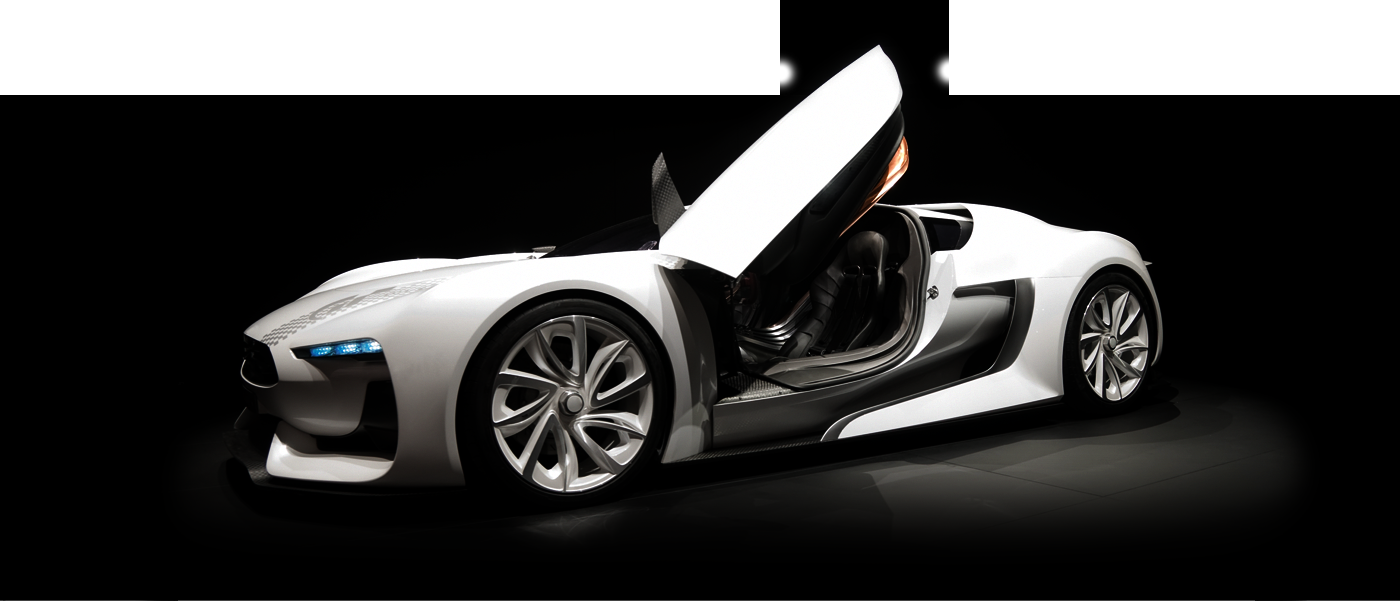
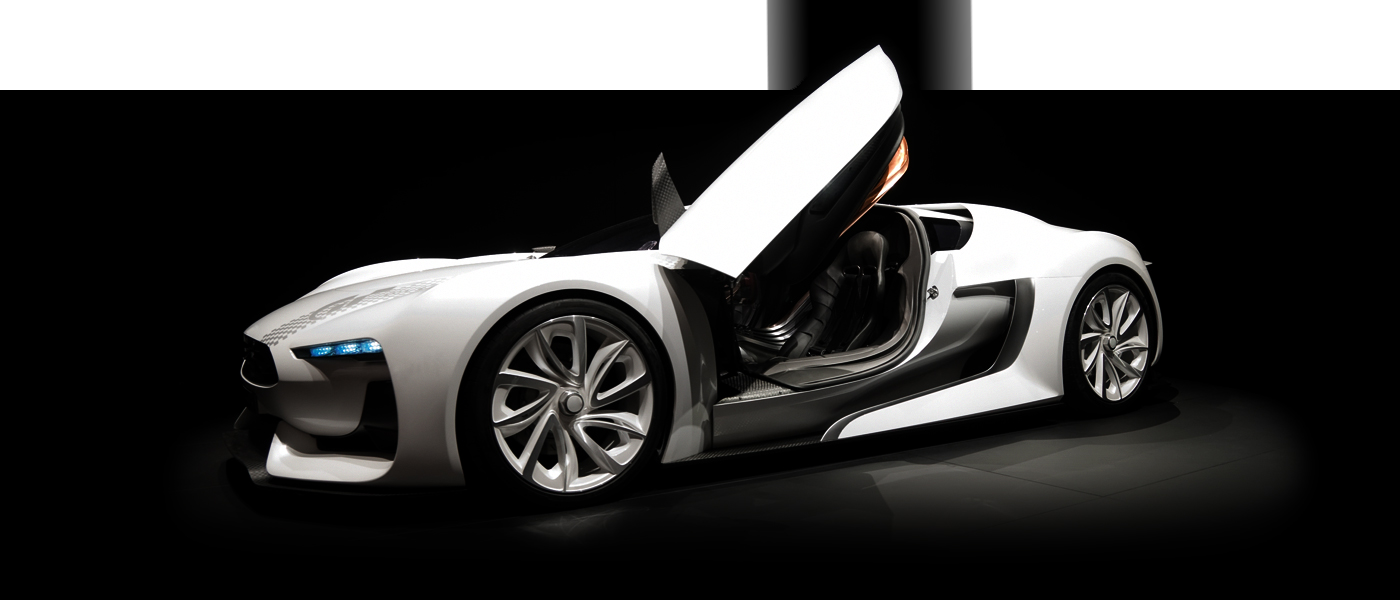
Adjusts styles.

diff --git a/dist/styles/main.min.css b/dist/styles/main.min.css
@@ -1,1 +1,1 @@
-article,aside,details,figcaption,figure,footer,header,hgroup,nav,section,summary{display:block}audio,canvas,video{display:inline-block}audio:not([controls]){display:none;height:0}[hidden],template{display:none}html{background:#fff;color:#000;-webkit-text-size-adjust:100%;-ms-text-size-adjust:100%}button,html,input,select,textarea{font-family:sans-serif}body{margin:0}a{background:0 0}a:focus{outline:dotted thin}a:active,a:hover{outline:0}h5{font-size:.83em}h6{font-size:.75em;margin:2.33em 0}abbr[title]{border-bottom:1px dotted}b,strong{font-weight:700}dfn{font-style:italic}mark{background:#ff0;color:#000}code,kbd,pre,samp{font-family:monospace,serif;font-size:1em}pre{white-space:pre;white-space:pre-wrap}q{quotes:"\201C" "\201D" "\2018" "\2019"}q:after,q:before{content:'';content:none}small{font-size:80%}sub,sup{font-size:75%;line-height:0;position:relative;vertical-align:baseline}sup{top:-.5em}sub{bottom:-.25em}img{border:0}svg:not(:root){overflow:hidden}figure{margin:0}fieldset{border:1px solid silver;margin:0 2px;padding:.35em .625em .75em}legend{border:0;padding:0;white-space:normal}button,input,select,textarea{font-family:inherit;font-size:100%;margin:0;vertical-align:baseline}button,input{line-height:normal}button,select{text-transform:none}button,html input[type=button],input[type=reset],input[type=submit]{-webkit-appearance:button;cursor:pointer}button[disabled],input[disabled]{cursor:default}input[type=checkbox],input[type=radio]{box-sizing:border-box;padding:0}input[type=search]{-webkit-appearance:textfield;box-sizing:content-box}input[type=search]::-webkit-search-cancel-button,input[type=search]::-webkit-search-decoration{-webkit-appearance:none}button::-moz-focus-inner,input::-moz-focus-inner{border:0;padding:0}textarea{overflow:auto;vertical-align:top}table{border-collapse:collapse;border-spacing:0}.non-bulleted-list,.side-menu,.tabs,api-list>ul,api-specification-card ul{padding-left:0;list-style-type:none;width:100%}@font-face{font-family:hack-font;src:url(/hackathon-portal/dist/fonts/hack-font.otf);font-weight:400}@font-face{font-family:hack-font;src:url(/hackathon-portal/dist/fonts/hack-font-bold.otf);font-weight:700}div,dl,h1,h2,h3,h4,h5,hr,ol,p,ul{margin:0;padding:0}body{font-family:hack-font,sans-serif;font-size:14px;padding-bottom:20px;color:#333;background-color:#fff}h1,h2,h3,h4{text-transform:uppercase;text-align:left;font-weight:400}h1{font-size:24px}h2{font-size:16px}h3,h4{font-size:14px}input,textarea{font-family:Consolas,Monaco,'Andale Mono',monospace;margin:0;padding:6px;border-width:0;background-color:#eff8ff;white-space:pre}button{height:35px;line-height:35px;margin:0;padding:0 16px;border-width:0;border-radius:0;background-color:#000;color:#fff;text-transform:uppercase}button[disabled]{background-color:#666;color:#fff}[hljs]>pre{margin:0;padding:0 16px;overflow:auto;background-color:#f7f7f7}[hljs]>pre>code{display:block;overflow:visible;padding:16px 0;background-color:#f7f7f7}.tabs:after{content:"";display:table;clear:both}.tab{display:block;float:left;width:calc(33.3% - 14px);margin-left:20px;height:30px;font-size:16px;border:0 solid #333;border-bottom-width:10px;cursor:pointer;vertical-align:top;text-transform:uppercase;text-align:left;overflow:hidden;-webkit-transition:border-color .25s;transition:border-color .25s}.tab.selected{border-color:#09f}.tab:first-child{margin-left:0}hr.divider{position:relative;border:0 solid #bfbfbf;border-bottom-width:1px}li:last-child>hr.divider{display:none}h1{margin-bottom:16px}#banner{color:#fff;background-color:#040404}#top-header{position:relative;height:70px;line-height:70px;vertical-align:middle;border-width:0 0 1px;-webkit-border-image:-webkit-linear-gradient(0deg,transparent,#777 20%,#777 80%,transparent) 1;border-image:linear-gradient(90deg,transparent,#777 20%,#777 80%,transparent) 1;z-index:1}#title-part-1,#title-part-2{font-size:20px;text-transform:uppercase}#title-part-1{color:#09f}#logos{position:relative;float:right}#logos>a,#logos>a>img{vertical-align:middle}#logos>a{margin-left:36px}#ericsson-logo{position:relative;top:-1px}#car-image-panel{position:absolute;top:0;left:0;width:100%;height:620px;background:url(/hackathon-portal/dist/images/car.png) center center no-repeat;z-index:2}#empty-car-area{position:relative;height:549px;z-index:3}.content-area{max-width:940px;margin:0 auto;height:100%;min-height:500px}.inner-content-area{position:relative;float:right;clear:right;width:calc(100% - 240px);height:100%}.inner-content-area>h1{margin:30px 0;text-align:left}.inner-content-area>.tabs{position:absolute;bottom:34px}.side-menu{float:left;width:220px;margin:0 20px 0 0}.side-menu>li,.side-menu>li>a{display:block;height:84px;line-height:84px;font-size:16px;vertical-align:middle;text-align:left;text-transform:uppercase;cursor:pointer}.side-menu>li>a,.side-menu>li>a:active,.side-menu>li>a:hover,.side-menu>li>a:visited{color:#333;text-decoration:none;-webkit-transition:color .25s;transition:color .25s}.side-menu>li.selected>a{color:#09f}.side-menu>li>hr.divider{top:0;margin:0}li[api-list-item]{position:relative}li[api-list-item]:after{content:"";display:table;clear:both}li[api-list-item]>hr.divider{top:4px;margin:0 0 8px 120px}.api-list-item-header{position:relative;height:35px;line-height:35px;overflow-x:visible;overflow-y:hidden;vertical-align:middle;cursor:pointer;color:#bfbfbf;-webkit-transition:color .15s;transition:color .15s}.api-list-item-header>div{line-height:40px}.api-list-item-header>.verb{font-family:Consolas,Monaco,'Andale Mono',monospace;float:left;width:100px;color:#fff;background-color:#bfe5ff;text-align:center;-webkit-transition:color .15s,background-color .15s;transition:color .15s,background-color .15s}.api-list-item-header>.route{font-family:Consolas,Monaco,'Andale Mono',monospace;float:left;margin-left:20px}.api-list-item-header>.name{position:absolute;right:0;padding-left:20px;background-color:#fff}li[api-list-item].none-selected .api-list-item-header,li[api-list-item].selected .api-list-item-header{color:#333}li[api-list-item].none-selected .api-list-item-header>.verb,li[api-list-item].selected .api-list-item-header>.verb{color:#fff;background-color:#09f}.api-list-item-body{clear:both;overflow-x:visible;overflow-y:hidden;height:0;text-align:left;-webkit-transition:height .3s;transition:height .3s}li[api-list-item].selected .api-list-item-body{height:900px}.api-list-item-body>api-example-card,.api-list-item-body>api-specification-card,.api-list-item-body>api-try-it-card{height:calc(100% - 118px);margin-top:14px;padding:20px 0 35px;overflow-x:visible;overflow-y:auto}.card-tab{height:30px;border-bottom-width:10px;margin-top:10px}api-specification-card{display:block}api-specification-card>div{margin-top:16px}api-specification-card>div:first-child{margin-top:0}.resource-table-array-element:after{content:', '}.resource-table-array-element:last-child:after{content:''}api-specification-card td{white-space:pre-wrap}api-specification-card dt{display:block;float:left;clear:left}api-specification-card dd{display:span;margin-left:240px;margin-bottom:10px}.api-specification-errors dd{margin-left:80px}api-specification-card th{width:80px;padding-bottom:10px;text-align:left}api-specification-card th:first-child{width:160px}api-specification-card th:last-child{width:380px}api-specification-card td{padding-bottom:6px;vertical-align:top}api-specification-card h3{margin-top:34px;margin-bottom:14px;font-weight:700;text-transform:none}.api-specification-examples li,api-specification-card h4{margin-bottom:10px}.example-content{padding:16px;background-color:#f7f7f7;white-space:nowrap}.example-request-header{font-family:Consolas,Monaco,'Andale Mono',monospace}.example-content>[hljs]>pre,.example-content>[hljs]>pre>code{padding:0}api-example-card{display:block}api-example-card>[hljs]>pre{height:calc(100% - 50px);margin:10px 0 0}.platform-tab{height:30px;border-bottom-width:10px;margin-top:0}api-try-it-card{display:block;position:relative}api-try-it-card h3{margin-top:14px}api-try-it-card h4{margin:23px 0 18px;font-weight:700}api-try-it-card>hr{margin-top:10px;margin-bottom:10px}api-try-it-card label{display:block;margin-top:8px}.try-it-request-area,.try-it-response-area,.try-it-url{position:relative;margin-top:10px;margin-bottom:10px}.try-it-request-area{padding-bottom:38px}.try-it-auth-string,.try-it-url{font-family:Consolas,Monaco,'Andale Mono',monospace;background-color:#f7f7f7;padding:6px}.try-it-url{overflow-x:hidden}.try-it-authentication-header>span,api-try-it-card label>*{display:inline-block}.try-it-authentication-header>span:first-child,api-try-it-card label>span{width:160px;text-align:right}.try-it-authentication-header>span:nth-child(2){min-width:248px}api-try-it-card input{width:248px}.try-it-authentication input{width:168px}.domain-input{width:409px}.try-it-authentication{margin-top:8px}.try-it-authentication>label{margin-left:80px}.try-it-request-body{font-family:Consolas,Monaco,'Andale Mono',monospace;width:calc(100% - 12px);height:280px;margin-bottom:8px}.try-it-reset-button,.try-it-send-button{position:absolute;bottom:0}.try-it-reset-button{left:0}.try-it-send-button{right:0}.try-it-response{font-family:Consolas,Monaco,'Andale Mono',monospace}.try-it-response-area>h3{margin-bottom:18px}.try-it-status{color:#4b2}.try-it-status.error{color:#c42}div.try-it-response-body[hljs]{margin:8px 0}api-list{width:100%;margin-top:20px}api-list:after{content:"";display:table;clear:both;margin-bottom:20px}.sample-app-card{margin-bottom:40px}.sample-app-card img{width:20px;margin-right:16px;vertical-align:sub}.sample-app-card h2{margin:20px 0 10px}
+article,aside,details,figcaption,figure,footer,header,hgroup,nav,section,summary{display:block}audio,canvas,video{display:inline-block}audio:not([controls]){display:none;height:0}[hidden],template{display:none}html{background:#fff;color:#000;-webkit-text-size-adjust:100%;-ms-text-size-adjust:100%}button,html,input,select,textarea{font-family:sans-serif}body{margin:0}a{background:0 0}a:focus{outline:dotted thin}a:active,a:hover{outline:0}h5{font-size:.83em}h6{font-size:.75em;margin:2.33em 0}abbr[title]{border-bottom:1px dotted}b,strong{font-weight:700}dfn{font-style:italic}mark{background:#ff0;color:#000}code,kbd,pre,samp{font-family:monospace,serif;font-size:1em}pre{white-space:pre;white-space:pre-wrap}q{quotes:"\201C" "\201D" "\2018" "\2019"}q:after,q:before{content:'';content:none}small{font-size:80%}sub,sup{font-size:75%;line-height:0;position:relative;vertical-align:baseline}sup{top:-.5em}sub{bottom:-.25em}img{border:0}svg:not(:root){overflow:hidden}figure{margin:0}fieldset{border:1px solid silver;margin:0 2px;padding:.35em .625em .75em}legend{border:0;padding:0;white-space:normal}button,input,select,textarea{font-family:inherit;font-size:100%;margin:0;vertical-align:baseline}button,input{line-height:normal}button,select{text-transform:none}button,html input[type=button],input[type=reset],input[type=submit]{-webkit-appearance:button;cursor:pointer}button[disabled],input[disabled]{cursor:default}input[type=checkbox],input[type=radio]{box-sizing:border-box;padding:0}input[type=search]{-webkit-appearance:textfield;box-sizing:content-box}input[type=search]::-webkit-search-cancel-button,input[type=search]::-webkit-search-decoration{-webkit-appearance:none}button::-moz-focus-inner,input::-moz-focus-inner{border:0;padding:0}textarea{overflow:auto;vertical-align:top}table{border-collapse:collapse;border-spacing:0}.non-bulleted-list,.side-menu,.tabs,api-list>ul,api-specification-card ul{padding-left:0;list-style-type:none;width:100%}@font-face{font-family:hack-font;src:url(/hackathon-portal/dist/fonts/hack-font.otf);font-weight:400}@font-face{font-family:hack-font;src:url(/hackathon-portal/dist/fonts/hack-font-bold.otf);font-weight:700}div,dl,h1,h2,h3,h4,h5,hr,ol,p,ul{margin:0;padding:0}body{font-family:hack-font,sans-serif;font-size:14px;padding-bottom:20px;color:#333;background-color:#fff}h1,h2,h3,h4{text-transform:uppercase;text-align:left;font-weight:400}h1{font-size:24px}h2{font-size:16px}h3,h4{font-size:14px}input,textarea{font-family:Consolas,Monaco,'Andale Mono',monospace;margin:0;padding:6px;border-width:0;background-color:#eff8ff;white-space:pre}button{height:35px;line-height:35px;margin:0;padding:0 16px;border-width:0;border-radius:0;background-color:#000;color:#fff;text-transform:uppercase}button[disabled]{background-color:#666;color:#fff}[hljs]>pre{margin:0;padding:0 16px;overflow:auto;background-color:#f7f7f7}[hljs]>pre>code{display:block;overflow:visible;padding:16px 0;background-color:#f7f7f7}.tabs:after{content:"";display:table;clear:both}.tab{display:block;float:left;width:calc(33.3% - 14px);margin-left:20px;height:30px;font-size:16px;border:0 solid #333;border-bottom-width:10px;cursor:pointer;vertical-align:top;text-transform:uppercase;text-align:left;overflow:hidden;-webkit-transition:border-color .25s;transition:border-color .25s}.tab.selected{border-color:#09f}.tab:first-child{margin-left:0}hr.divider{position:relative;border:0 solid #bfbfbf;border-bottom-width:1px}li:last-child>hr.divider{display:none}h1{margin-bottom:16px}#banner{color:#fff;background-color:#040404}#top-header{position:relative;height:70px;line-height:70px;vertical-align:middle;z-index:4}#header-divider{position:relative;height:1px;background:-webkit-linear-gradient(0deg,transparent,#777 20%,#777 80%,transparent);background:linear-gradient(90deg,transparent,#777 20%,#777 80%,transparent);z-index:1}#title-part-1,#title-part-2{font-size:20px;text-transform:uppercase}#title-part-1{color:#09f}#logos{position:relative;float:right}#logos>a,#logos>a>img{vertical-align:middle}#logos>a{margin-left:36px}#ericsson-logo{position:relative;top:-1px}#car-image-panel{position:absolute;top:0;left:0;width:100%;height:640px;background:url(/hackathon-portal/dist/images/car.png) center top no-repeat;z-index:2}#empty-car-area{position:relative;height:569px;z-index:3}.content-area{max-width:940px;margin:0 auto;height:100%;min-height:500px}.inner-content-area{position:relative;float:right;clear:right;width:calc(100% - 240px);height:100%}.inner-content-area>h1{margin:30px 0;text-align:left}.inner-content-area>.tabs{position:absolute;bottom:34px}.side-menu{float:left;width:220px;margin:0 20px 0 0}.side-menu>li,.side-menu>li>a{display:block;height:84px;line-height:84px;font-size:16px;vertical-align:middle;text-align:left;text-transform:uppercase;cursor:pointer}a,a:active,a:hover,a:visited{text-decoration:none}.side-menu>li>a,.side-menu>li>a:active,.side-menu>li>a:hover,.side-menu>li>a:visited{color:#333;-webkit-transition:color .25s;transition:color .25s}.side-menu>li.selected>a{color:#09f}.side-menu>li>hr.divider{top:0;margin:0}li[api-list-item]{position:relative}li[api-list-item]:after{content:"";display:table;clear:both}li[api-list-item]>hr.divider{top:4px;margin:0 0 8px 120px}.api-list-item-header{position:relative;height:35px;line-height:35px;overflow-x:visible;overflow-y:hidden;vertical-align:middle;cursor:pointer;color:#bfbfbf;-webkit-transition:color .15s;transition:color .15s}.api-list-item-header>div{line-height:40px}.api-list-item-header>.verb{font-family:Consolas,Monaco,'Andale Mono',monospace;float:left;width:100px;color:#fff;background-color:#bfe5ff;text-align:center;-webkit-transition:color .15s,background-color .15s;transition:color .15s,background-color .15s}.api-list-item-header>.route{font-family:Consolas,Monaco,'Andale Mono',monospace;float:left;margin-left:20px}.api-list-item-header>.name{position:absolute;right:0;padding-left:20px;background-color:#fff}li[api-list-item].none-selected .api-list-item-header,li[api-list-item].selected .api-list-item-header{color:#333}li[api-list-item].none-selected .api-list-item-header>.verb,li[api-list-item].selected .api-list-item-header>.verb{color:#fff;background-color:#09f}.api-list-item-body{clear:both;overflow-x:visible;overflow-y:hidden;height:0;text-align:left;-webkit-transition:height .3s;transition:height .3s}li[api-list-item].selected .api-list-item-body{height:900px}.api-list-item-body>api-example-card,.api-list-item-body>api-specification-card,.api-list-item-body>api-try-it-card{height:calc(100% - 118px);margin-top:14px;padding:20px 0 35px;overflow-x:visible;overflow-y:auto}.card-tab{height:30px;border-bottom-width:10px;margin-top:10px}api-specification-card{display:block}api-specification-card>div{margin-top:16px}api-specification-card>div:first-child{margin-top:0}.resource-table-array-element:after{content:', '}.resource-table-array-element:last-child:after{content:''}api-specification-card td{white-space:pre-wrap}api-specification-card dt{display:block;float:left;clear:left}api-specification-card dd{display:span;margin-left:240px;margin-bottom:10px}.api-specification-errors dd{margin-left:80px}api-specification-card th{width:80px;padding-bottom:10px;text-align:left}api-specification-card th:first-child{width:160px}api-specification-card th:last-child{width:380px}api-specification-card td{padding-bottom:6px;vertical-align:top}api-specification-card h3{margin-top:34px;margin-bottom:14px;font-weight:700;text-transform:none}.api-specification-examples li,api-specification-card h4{margin-bottom:10px}.example-content{padding:16px;background-color:#f7f7f7;white-space:nowrap}.example-request-header{font-family:Consolas,Monaco,'Andale Mono',monospace}.example-content>[hljs]>pre,.example-content>[hljs]>pre>code{padding:0}api-example-card{display:block}api-example-card>[hljs]>pre{height:calc(100% - 50px);margin:10px 0 0}.platform-tab{height:30px;border-bottom-width:10px;margin-top:0}api-try-it-card{display:block;position:relative}api-try-it-card h3{margin-top:14px}api-try-it-card h4{margin:23px 0 18px;font-weight:700}api-try-it-card>hr{margin-top:10px;margin-bottom:10px}api-try-it-card label{display:block;margin-top:8px}.try-it-request-area,.try-it-response-area,.try-it-url{position:relative;margin-top:10px;margin-bottom:10px}.try-it-request-area{padding-bottom:38px}.try-it-auth-string,.try-it-url{font-family:Consolas,Monaco,'Andale Mono',monospace;background-color:#f7f7f7;padding:6px}.try-it-url{overflow-x:hidden}.try-it-authentication-header>span,api-try-it-card label>*{display:inline-block}.try-it-authentication-header>span:first-child,api-try-it-card label>span{width:160px;text-align:right}.try-it-authentication-header>span:nth-child(2){min-width:248px}api-try-it-card input{width:248px}.try-it-authentication input{width:168px}.domain-input{width:409px}.try-it-authentication{margin-top:8px}.try-it-authentication>label{margin-left:80px}.try-it-request-body{font-family:Consolas,Monaco,'Andale Mono',monospace;width:calc(100% - 12px);height:280px;margin-bottom:8px}.try-it-reset-button,.try-it-send-button{position:absolute;bottom:0}.try-it-reset-button{left:0}.try-it-send-button{right:0}.try-it-response{font-family:Consolas,Monaco,'Andale Mono',monospace}.try-it-response-area>h3{margin-bottom:18px}.try-it-status{color:#4b2}.try-it-status.error{color:#c42}div.try-it-response-body[hljs]{margin:8px 0}api-list{width:100%;margin-top:20px}api-list:after{content:"";display:table;clear:both;margin-bottom:20px}.sample-app-card{margin-bottom:40px}.sample-app-card img{width:20px;margin-right:16px;vertical-align:sub}.sample-app-card h2{margin:20px 0 10px}

diff --git a/dist/styles/main.css b/dist/styles/main.css
@@ -285,9 +285,13 @@ h1 {
   height: 70px;
   line-height: 70px;
   vertical-align: middle;
-  border-width: 0 0 1px 0;
-  -webkit-border-image: -webkit-linear-gradient(0deg, transparent, #777777 20%, #777777 80%, transparent) 1;
-          border-image: linear-gradient(90deg, transparent, #777777 20%, #777777 80%, transparent) 1;
+  z-index: 4; }
+
+#header-divider {
+  position: relative;
+  height: 1px;
+  background: -webkit-linear-gradient(0deg, transparent, #777777 20%, #777777 80%, transparent);
+  background: linear-gradient(90deg, transparent, #777777 20%, #777777 80%, transparent);
   z-index: 1; }
 
 #title-part-1, #title-part-2 {
@@ -316,13 +320,13 @@ h1 {
   top: 0;
   left: 0;
   width: 100%;
-  height: 620px;
-  background: transparent url('/hackathon-portal/dist/images/car.png') no-repeat center center;
+  height: 640px;
+  background: transparent url('/hackathon-portal/dist/images/car.png') no-repeat center top;
   z-index: 2; }
 
 #empty-car-area {
   position: relative;
-  height: 549px;
+  height: 569px;
   z-index: 3; }
 
 .content-area {
@@ -361,9 +365,11 @@ h1 {
   text-transform: uppercase;
   cursor: pointer; }
 
+a, a:active, a:hover, a:visited {
+  text-decoration: none; }
+
 .side-menu > li > a, .side-menu > li > a:active, .side-menu > li > a:hover, .side-menu > li > a:visited {
   color: #333333;
-  text-decoration: none;
   -webkit-transition: color 0.25s;
           transition: color 0.25s; }
 

diff --git a/src/common/_common.scss b/src/common/_common.scss
@@ -49,7 +49,7 @@ $category-tab-border-width: 10px;
 
 $divider-border-width: 1px;
 
-$banner-height: 620px;
+$banner-height: 640px;
 $top-header-height: 70px;
 $top-header-divider-border-width: 1px;
 $logo-gap: 36px;
@@ -222,8 +222,13 @@ h1 {
   height: $top-header-height;
   line-height: $top-header-height;
   vertical-align: middle;
-  border-width: 0 0 $top-header-divider-border-width 0;
-  border-image: linear-gradient(90deg, transparent, #777777 20%, #777777 80%, transparent) 1;
+  z-index: 4;
+}
+
+#header-divider {
+  position: relative;
+  height: 1px;
+  background: linear-gradient(90deg, transparent, #777777 20%, #777777 80%, transparent);
   z-index: 1;
 }
 
@@ -262,7 +267,7 @@ h1 {
   top: 0; left: 0;
   width: 100%;
   height: $banner-height;
-  background: transparent url($root-path + '/dist/images/car.png') no-repeat center center;
+  background: transparent url($root-path + '/dist/images/car.png') no-repeat center top;
   z-index: 2;
 }
 
@@ -318,12 +323,18 @@ h1 {
   cursor: pointer;
 }
 
+a,
+a:active,
+a:hover,
+a:visited {
+  text-decoration: none;
+}
+
 .side-menu>li>a,
 .side-menu>li>a:active,
 .side-menu>li>a:hover,
 .side-menu>li>a:visited {
   color: $item-inactive-color;
-  text-decoration: none;
   transition: color 0.25s;
 }
 

diff --git a/index.html b/index.html
@@ -40,6 +40,8 @@
       </div>
     </div>
 
+    <div id="header-divider"></div>
+
     <div id="empty-car-area">
       <div class="content-area">
         <div class="inner-content-area">
